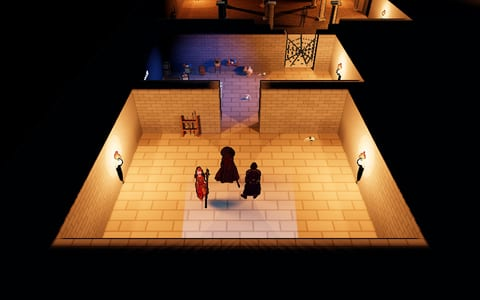
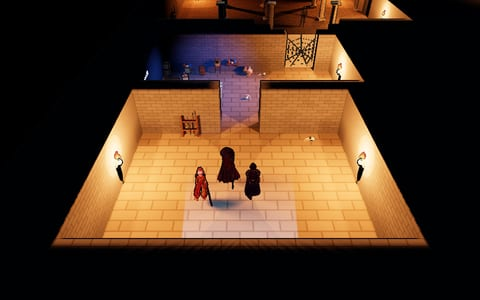
Toon outlines fixed

Changed region(s): [[0.375, 0.48, 0.5625, 0.69]]

diff --git a/kindling/src/render/OutlinePass.ts b/kindling/src/render/OutlinePass.ts
@@ -14,7 +14,8 @@ const FRAGMENT = `
 #include <packing>
 uniform sampler2D tColor;
 uniform sampler2D tDepth;
-uniform vec2 uStep;
+uniform vec2 uTexel;
+uniform float uWidth;
 uniform vec3 uInk;
 uniform float uNear;
 uniform float uFar;
@@ -34,25 +35,45 @@ float distanceAt(vec2 uv) {
 	return -perspectiveDepthToViewZ(texture2D(tDepth, uv).x, uNear, uFar);
 }
 
+const vec2 SIDES[4] = vec2[4](vec2(-1.0, 0.0), vec2(1.0, 0.0), vec2(0.0, -1.0), vec2(0.0, 1.0));
+
+// How much ink the edge test finds at this pixel, looking reach texels to each side.
+float edgeAt(float reach, float z, float mask) {
+	float sum = 0.0;
+	float nearest = 0.0;
+	vec2 nearestUv = vUv;
+	for (int i = 0; i < 4; i++) {
+		vec2 uv = vUv + SIDES[i] * uTexel * reach;
+		float closeness = 1.0 / distanceAt(uv);
+		sum += closeness;
+		if (closeness > nearest) {
+			nearest = closeness;
+			nearestUv = uv;
+		}
+	}
+	// 1/z is linear across any flat surface on screen, so its Laplacian is zero
+	// on planes and spikes at silhouettes (negative on the near side) and creases.
+	float lap = (sum - 4.0 / z) * z;
+	// An edge belongs to the surface in front. The near side inks itself; the far side takes the
+	// ink of its nearest neighbour, even on a surface that opts out (alpha -1).
+	float owner = lap < 0.0 ? mask : texture2D(tColor, nearestUv).a;
+	return owner > 0.5 ? smoothstep(0.015, 0.05, abs(lap)) : 0.0;
+}
+
 void main() {
 	vec4 color = texture2D(tColor, vUv);
 	float edge = 0.0;
-	if (color.a > 0.5) {
+	float clear = abs(color.a);
+	if (clear > 0.5) {
 		float z = distanceAt(vUv);
-		vec2 dx = vec2(uStep.x, 0.0);
-		vec2 dy = vec2(0.0, uStep.y);
-		// 1/z is linear across any flat surface on screen, so its Laplacian is zero
-		// on planes and spikes at silhouettes (negative on the near side) and creases.
-		float lap = (1.0 / distanceAt(vUv - dx) + 1.0 / distanceAt(vUv + dx)
-			+ 1.0 / distanceAt(vUv - dy) + 1.0 / distanceAt(vUv + dy) - 4.0 / z) * z;
-		// Next to a surface that opts out (alpha 0), ink only the near side.
-		float clean = min(
-			min(texture2D(tColor, vUv - dx).a, texture2D(tColor, vUv + dx).a),
-			min(texture2D(tColor, vUv - dy).a, texture2D(tColor, vUv + dy).a)
-		);
-		float e = clean > 0.5 ? abs(lap) : max(-lap, 0.0);
+		// Depth is point-sampled, so reach comes in whole texels: blend the two around the width.
+		float reach = floor(uWidth);
+		edge = edgeAt(reach, z, color.a);
+		if (uWidth > reach) {
+			edge = mix(edge, edgeAt(reach + 1.0, z, color.a), uWidth - reach);
+		}
 		// Under see-through effects drawn with overInk, as faint as they let it through.
-		edge = smoothstep(0.015, 0.05, e) * (1.0 - smoothstep(uFogNear, uFogFar, z)) * smoothstep(0.5, 1.0, color.a);
+		edge *= (1.0 - smoothstep(uFogNear, uFogFar, z)) * smoothstep(0.5, 1.0, clear);
 	}
 	gl_FragColor = vec4(color.rgb, 1.0);
 	#include <tonemapping_fragment>
@@ -92,8 +113,24 @@ export function overInk(material:THREE.Material):void {
 	material.blendDstAlpha = THREE.OneMinusSrcAlphaFactor;
 }
 
+/**
+ * Draws see-through `material` (a ground decal, a thin line, a pane) under the ink outlines: ink falls
+ * on it as on whatever is behind it. Keeps additive blending additive; anything else blends normally.
+ */
+export function underInk(material:THREE.Material):void {
+	const additive = material.blending === THREE.AdditiveBlending;
+	material.blending = THREE.CustomBlending;
+	material.blendEquation = THREE.AddEquation;
+	material.blendSrc = THREE.SrcAlphaFactor;
+	material.blendDst = additive ? THREE.OneFactor : THREE.OneMinusSrcAlphaFactor;
+	material.blendSrcAlpha = THREE.ZeroFactor;
+	material.blendDstAlpha = THREE.OneFactor;
+}
+
 /** Window height the outline `width` is given at. */
 const REFERENCE_HEIGHT = 1080;
+/** Camera height in meters the outline `width` is given at. */
+const REFERENCE_CAMERA_HEIGHT = 10;
 
 /**
  * Screen-space ink outlines from scene depth: one offscreen render plus one fullscreen pass,
@@ -103,8 +140,12 @@ export class OutlinePass {
 	public enabled = true;
 	/** Ink color (sRGB hex as authored). */
 	public readonly color = new THREE.Color(0x23170f);
-	/** Line width in pixels at a 1080-pixel-tall window; scales with the drawing buffer. */
-	public width = 2.2;
+	/**
+	 * How far ink reaches to each side of an edge, in pixels, with the camera 10 meters up in a
+	 * 1080-pixel-tall window. Scales with the drawing buffer and with one over the square root of
+	 * camera height, never under one pixel. The same for the whole frame.
+	 */
+	public width = 1.2;
 	/** The black-and-white impact frame to draw over this frame (the camera's), or null. */
 	public impact:ImpactFrame | null = null;
 
@@ -128,7 +169,8 @@ export class OutlinePass {
 			uniforms: {
 				tColor: { value: this._target.texture },
 				tDepth: { value: this._target.depthTexture },
-				uStep: { value: new THREE.Vector2() },
+				uTexel: { value: new THREE.Vector2() },
+				uWidth: { value: 1 },
 				uInk: { value: this._ink },
 				uNear: { value: 0.1 },
 				uFar: { value: 100 },
@@ -169,8 +211,9 @@ export class OutlinePass {
 		gl.render(scene, camera);
 		gl.setRenderTarget(null);
 		const u = this._material.uniforms;
-		const px = Math.max(1, this.width * this._target.height / REFERENCE_HEIGHT);
-		(u.uStep!.value as THREE.Vector2).set(px / this._target.width, px / this._target.height);
+		(u.uTexel!.value as THREE.Vector2).set(1 / this._target.width, 1 / this._target.height);
+		const cameraHeight = Math.max(1, camera.matrixWorld.elements[13]!);
+		u.uWidth!.value = Math.max(1, this.width * this._target.height / REFERENCE_HEIGHT * Math.sqrt(REFERENCE_CAMERA_HEIGHT / cameraHeight));
 		this._ink.copy(this.color).convertLinearToSRGB();
 		u.uNear!.value = camera.near;
 		u.uFar!.value = camera.far;

diff --git a/kindling/src/render/ToonMaterial.ts b/kindling/src/render/ToonMaterial.ts
@@ -1,5 +1,6 @@
 import * as THREE from 'three';
 import { patchCapsuleShadows } from './capsuleShadows.js';
+import { underInk } from './OutlinePass.js';
 import { patchShader } from './shader.js';
 
 /**
@@ -237,10 +238,10 @@ reflectedLight.indirectDiffuse *= uToonShade;
 }
 `;
 
-/** Clears alpha so the renderer's outline pass skips this surface. Last write in the shader. */
+/** Negative alpha tells the renderer's outline pass this surface opts out. Last write in the shader. */
 const TOON_NO_OUTLINE = `
 #ifdef TOON_NO_OUTLINE
-	gl_FragColor.a = 0.0;
+	gl_FragColor.a = -1.0;
 #endif
 `;
 
@@ -364,8 +365,9 @@ export class ToonMaterial extends THREE.MeshToonMaterial {
 	}
 
 	/**
-	 * Off keeps this surface out of the ink pass, which reads alpha as its mask. Opaque surfaces write
-	 * alpha 0; transparent ones keep their alpha for blending and leave the mask beneath untouched.
+	 * Off draws no ink for this surface's own edges; an inked surface in front of it still draws its
+	 * full line over it. The ink pass reads alpha as its mask: opaque surfaces write alpha -1,
+	 * transparent ones keep their alpha for blending and leave the mask beneath untouched ({@link underInk}).
 	 * Set `transparent` first.
 	 */
 	public set outline(value:boolean) {
@@ -378,12 +380,7 @@ export class ToonMaterial extends THREE.MeshToonMaterial {
 			delete defines.TOON_NO_OUTLINE;
 		}
 		if (!value && this.transparent) {
-			this.blending = THREE.CustomBlending;
-			this.blendEquation = THREE.AddEquation;
-			this.blendSrc = THREE.SrcAlphaFactor;
-			this.blendDst = THREE.OneMinusSrcAlphaFactor;
-			this.blendSrcAlpha = THREE.ZeroFactor;
-			this.blendDstAlpha = THREE.OneFactor;
+			underInk(this);
 		}
 		else if (this.blending === THREE.CustomBlending) {
 			this.blending = THREE.NormalBlending;

diff --git a/game/src/characters/Seated.ts b/game/src/characters/Seated.ts
@@ -1,4 +1,4 @@
-import { BoxCollider, Component, MeshRenderer, closeHand, create, crouch, humanBone, palmOf, placeFoot, reach, restFoot, yawToForward } from '@arc-director/kindling';
+import { BoxCollider, Component, MeshRenderer, closeHand, create, crouch, humanBone, palmOf, placeFoot, reach, restFoot, underInk, yawToForward } from '@arc-director/kindling';
 import * as THREE from 'three';
 import { bindMesh } from '../engine/MeshRenderer';
 import { Order } from '../engine/order';
@@ -160,10 +160,12 @@ export class Seated extends Component {
 	private makeGear(scene:THREE.Object3D):NonNullable<Seated['_gear']> {
 		bindMesh('fishing_rod');
 		const rod = create('fishing_rod') ?? new THREE.Group();
+		// No depth, so the outline pass sees no edge along it.
+		const lineMaterial = new THREE.LineBasicMaterial({ color: 0xe8e2d0, transparent: true, opacity: 0.8, depthWrite: false });
+		underInk(lineMaterial);
 		const line = new THREE.Line(
 			new THREE.BufferGeometry().setAttribute('position', new THREE.Float32BufferAttribute(new Float32Array(12 * 3), 3)),
-			// No depth, so the outline pass sees no edge along it.
-			new THREE.LineBasicMaterial({ color: 0xe8e2d0, transparent: true, opacity: 0.8, depthWrite: false }),
+			lineMaterial,
 		);
 		line.frustumCulled = false;
 		const float = new THREE.Mesh(new THREE.SphereGeometry(0.035, 8, 6), new THREE.MeshBasicMaterial({ color: 0xd8402a }));

diff --git a/game/src/render/land.ts b/game/src/render/land.ts
@@ -1,4 +1,4 @@
-import { hash } from '@arc-director/kindling';
+import { hash, underInk } from '@arc-director/kindling';
 import * as THREE from 'three';
 import type { Chunk, Tile } from '../world/Chunk';
 import { CELL_SIZE, TILE_HEIGHT, WALL_HEIGHT } from '../world/constants';
@@ -630,6 +630,7 @@ const shadeMat = new THREE.MeshBasicMaterial({
 	polygonOffsetUnits: -8,
 });
 shadeMat.userData.shared = true;
+underInk(shadeMat);
 
 /** A sheet of shade at `y` over the grid of `xs` × `zs`, each corner as dark as `depth` meters into the woods. */
 function pushShade(d:Draws, xs:number[], zs:number[], y:number, depth:(x:number, z:number)=>number):void {

diff --git a/game/src/render/present.ts b/game/src/render/present.ts
@@ -1,4 +1,4 @@
-import { Time, type GameObject } from '@arc-director/kindling';
+import { Time, underInk, type GameObject } from '@arc-director/kindling';
 import * as THREE from 'three';
 import { Chest, Door, Torch, Bridge } from '../engine/components';
 import { MeshRenderer } from '../engine/MeshRenderer';
@@ -377,6 +377,7 @@ export class WorldPresent {
 			toneMapped: false,
 			side: THREE.DoubleSide,
 		});
+		underInk(mat);
 		const mesh = new THREE.Mesh(new THREE.PlaneGeometry(0.95, 0.95), mat);
 		mesh.rotation.x = -Math.PI / 2;
 		mesh.renderOrder = 2;

diff --git a/game/src/engine/TeamRing.ts b/game/src/engine/TeamRing.ts
@@ -1,4 +1,4 @@
-import { Component } from '@arc-director/kindling';
+import { Component, underInk } from '@arc-director/kindling';
 import * as THREE from 'three';
 import { Vitals } from './components';
 
@@ -51,6 +51,7 @@ export class TeamRing extends Component {
 			polygonOffset: true,
 			polygonOffsetFactor: -2,
 		});
+		underInk(material);
 		const ring = new THREE.Mesh(new THREE.PlaneGeometry(RING_SIZE, RING_SIZE).rotateX(-Math.PI / 2), material);
 		ring.position.y = RING_LIFT;
 		ring.castShadow = false;

diff --git a/kindling/src/index.ts b/kindling/src/index.ts
@@ -20,7 +20,7 @@ export { Light, polygonCookie, spotThrough, type LightKind } from './render/Ligh
 export { MeshRenderer } from './render/MeshRenderer.js';
 export { Renderer, type RendererLook, type RenderStats } from './render/Renderer.js';
 export { ShadowCache, type ShadowMode, type ShadowSettings } from './render/ShadowCache.js';
-export { OutlinePass, overInk } from './render/OutlinePass.js';
+export { OutlinePass, overInk, underInk } from './render/OutlinePass.js';
 export {
 	addEffect,
 	addMeshEffect,

diff --git a/game/src/engine/Showcase.ts b/game/src/engine/Showcase.ts
@@ -52,6 +52,8 @@ export class Showcase extends KindlingGame<World> {
 
 	constructor(sceneID:string, private readonly _fixed?:ShowcaseView) {
 		super(new World());
+		// The menu stays smooth beside another window.
+		this.unfocusedHz = Infinity;
 		this._scene = sceneByID(sceneID);
 		resetTime();
 		resetAllocID();

diff --git a/kindling/README.md b/kindling/README.md
@@ -323,11 +323,11 @@ The sun's shadow can come in two parts (every directional light is shadowed by e
 
 A pattern's `patternScale` is the height of one course in meters on the sides, and `topScale` is the same on faces that point up. `brickLength` is in meters, and `topAxis` is the direction the rows run on flat tops (stairs point it uphill). Together they let courses and joints line up with step heights and tread depths.
 
-`outline: false` keeps a surface, such as grass or water, out of the ink pass. Opaque surfaces write alpha 0 as the mask; transparent ones keep their alpha for blending and leave the mask beneath them untouched (set `transparent` before `outline`).
+`outline: false` draws no ink for a surface's own edges, such as grass or water; an inked surface in front of it still draws its full line over it. Opaque surfaces write alpha -1 as the mask; transparent ones keep their alpha for blending and leave the mask beneath them untouched (set `transparent` before `outline`).
 
 The mesh kit (`lathe`, `bevelBox`, `tube`, `blob`, `ribbon`) builds prop geometry in meters, with Y up. The host supplies the materials and any instancing.
 
-`Renderer.outline` (an `OutlinePass`) draws ink lines from the scene's depth in a single fullscreen pass, with no extra draw calls per object. Set its `color` per scene with `RendererLook.ink`, and its `width` in pixels at 1080p. Set `enabled = false` to render straight to the canvas. The ink is drawn after everything else, transparent objects included; `overInk(material)` lets an effect (a flame, a glow, a trail) wipe out the ink beneath it, in proportion to how much it covers.
+`Renderer.outline` (an `OutlinePass`) draws ink lines from the scene's depth in a single fullscreen pass, with no extra draw calls per object. Set its `color` per scene with `RendererLook.ink`, and its `width`, how far ink reaches to each side of an edge, in pixels at 1080p with the camera 10 meters up; lines thin with the square root of camera height, down to one pixel. Set `enabled = false` to render straight to the canvas. The ink is drawn after everything else, transparent objects included; `overInk(material)` lets an effect (a flame, a glow, a trail) wipe out the ink beneath it, in proportion to how much it covers. Other see-through materials need `underInk(material)` so that ink falls on them as on whatever is behind them; ToonMaterial's `outline: false` does this for its transparent surfaces.
 
 **Effects** (`render/effects.ts`). `addEffect(scene, object, update, dispose)` adds a short-lived effect that is drawn over the ink and casts no shadow. Its `update(age)` runs once a frame in game time and returns false when the effect is done. `addMeshEffect` is the version for a mesh that owns its geometry and material, and `effectMaterial` makes an unlit, see-through shader. Each of these primitives takes its look as data:
 

diff --git a/AGENTS.md b/AGENTS.md
@@ -100,7 +100,7 @@ The game is served at `http://localhost:5173/` (Vite default). There is no path 
 | `view` | agent | Full camera shot: `x,y,z,yaw`. All four numbers or the param is ignored (no partial pose). X/Z are meters on the ground; Y is height; yaw is radians. `0` yaw looks toward −Z (north); `1.5708` (π/2) toward −X (west); `3.1416` (π) toward +Z (south). Yaw also faces the player. Camera follows the player. |
 | `focus` | agent | Watch expression (ArcDirector syntax) the camera follows: the player, as the camera's rig, glides to the middle of whom it picks, asked every 0.5 s as the player sees them. `others.filter(u => doing(u, "cleave"))`, `others.filter("Knight")`, `others.filter("Forager")`. Pair with `player=camera`. Also the `set_camera` MCP tool. |
 | `zoom` | agent | Camera distance in meters (3–24, default about 13). Also `set_camera`. |
-| `min-fps` | agent | Draws per second while the window is not focused. Focused play is unchanged. Omitted stays at 3, so a background view does not burn the GPU. `0` draws every frame. A positive number is that rate. Kept when returning to Scenes. |
+| `min-fps` | agent | Draws per second while the window is not focused. Focused play is unchanged. Omitted stays at 3, so a background view does not burn the GPU. `0` draws every frame. A positive number is that rate. The main menu's backdrop always draws every frame. Kept when returning to Scenes. |
 | `stats` | test | `1` = render stats overlay (draw calls, triangles, geometries, textures, scene and screen memory, 30 s frame time). Also readable over the control hub with the `render_stats` MCP tool. Kept when returning to Scenes. |
 | `session` | test | Client id for the control MCP hub. The page installs `window.arcControl` always; it opens a WebSocket to the hub only when this is a non-empty value. A second live page with the same id is renamed (`alpha-2`, `alpha-3`, …) and the query is updated. Cursor: `.cursor/mcp.json`. Claude Code: `.mcp.json`. Both run `mcp/dist/main.js`, so build it first: `pnpm --filter @arc-director/mcp build`. |
 
